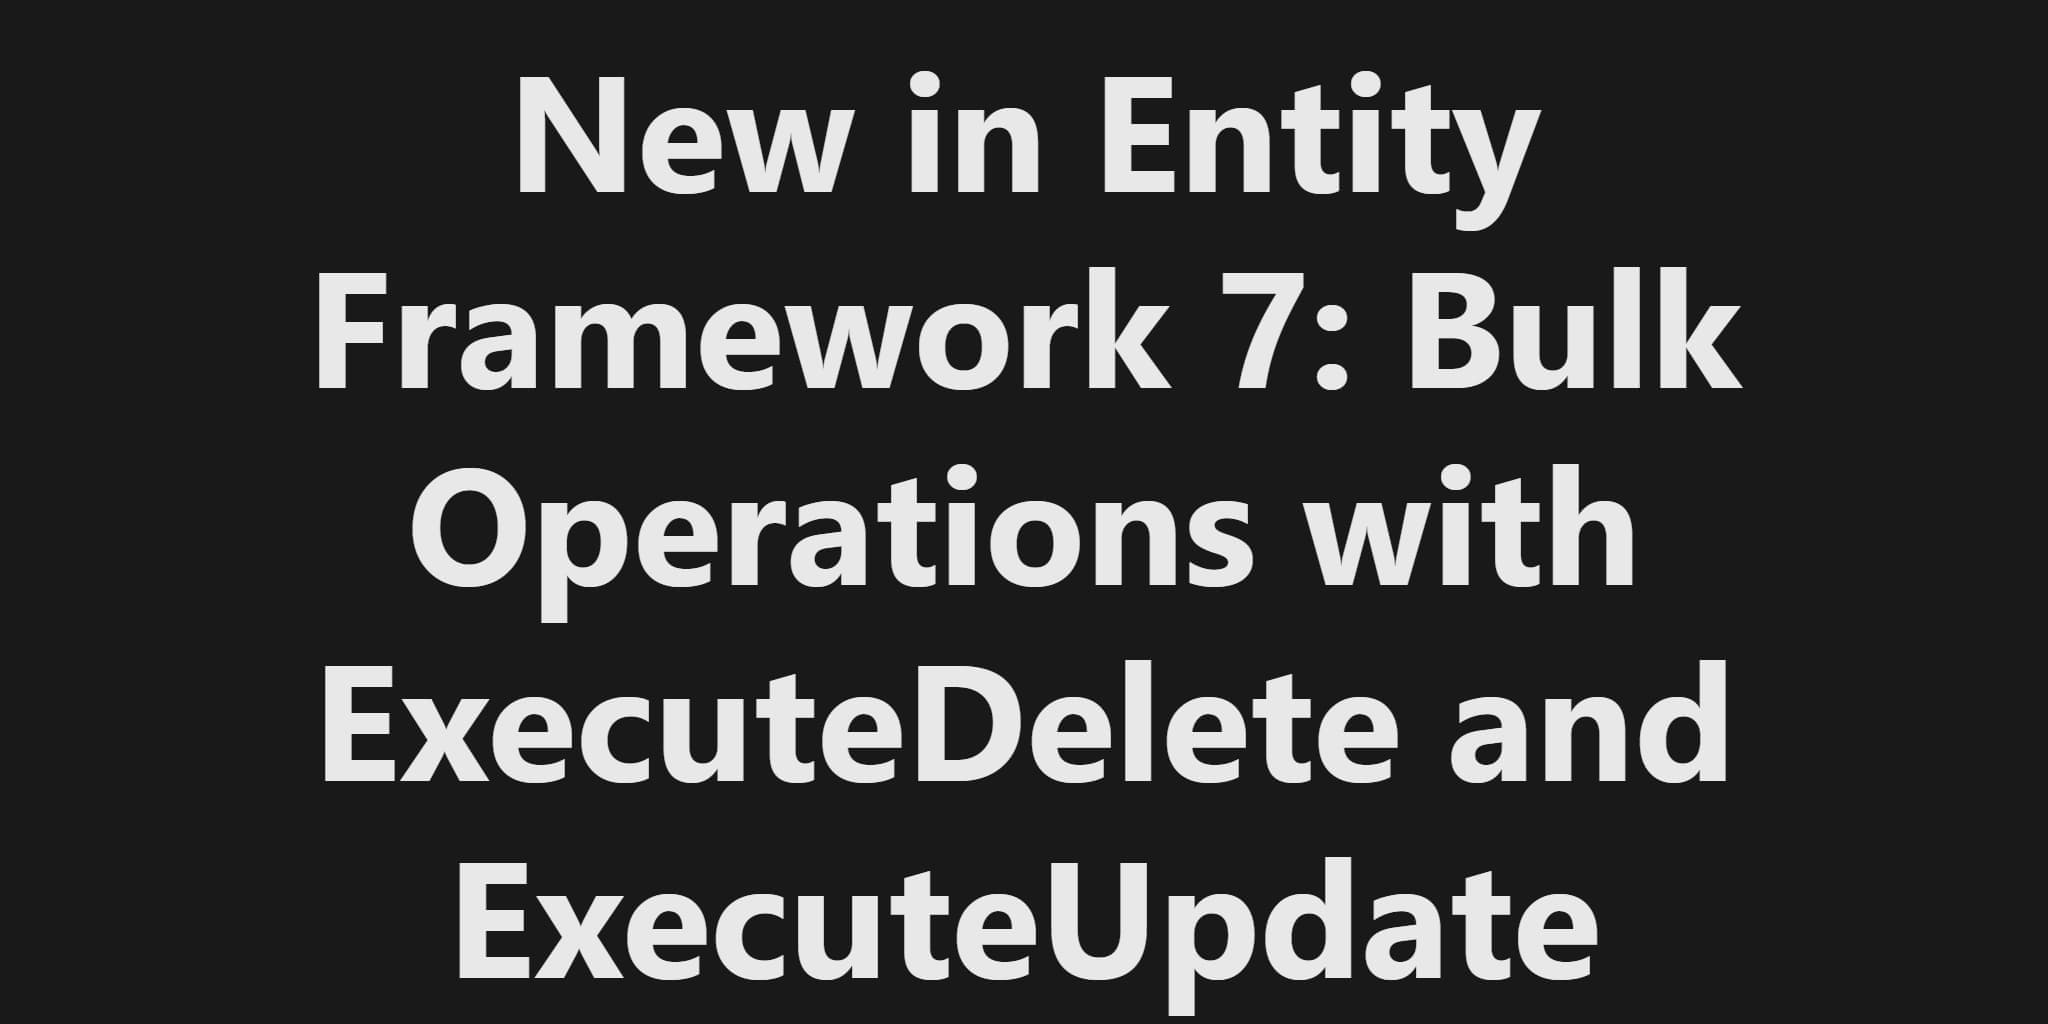
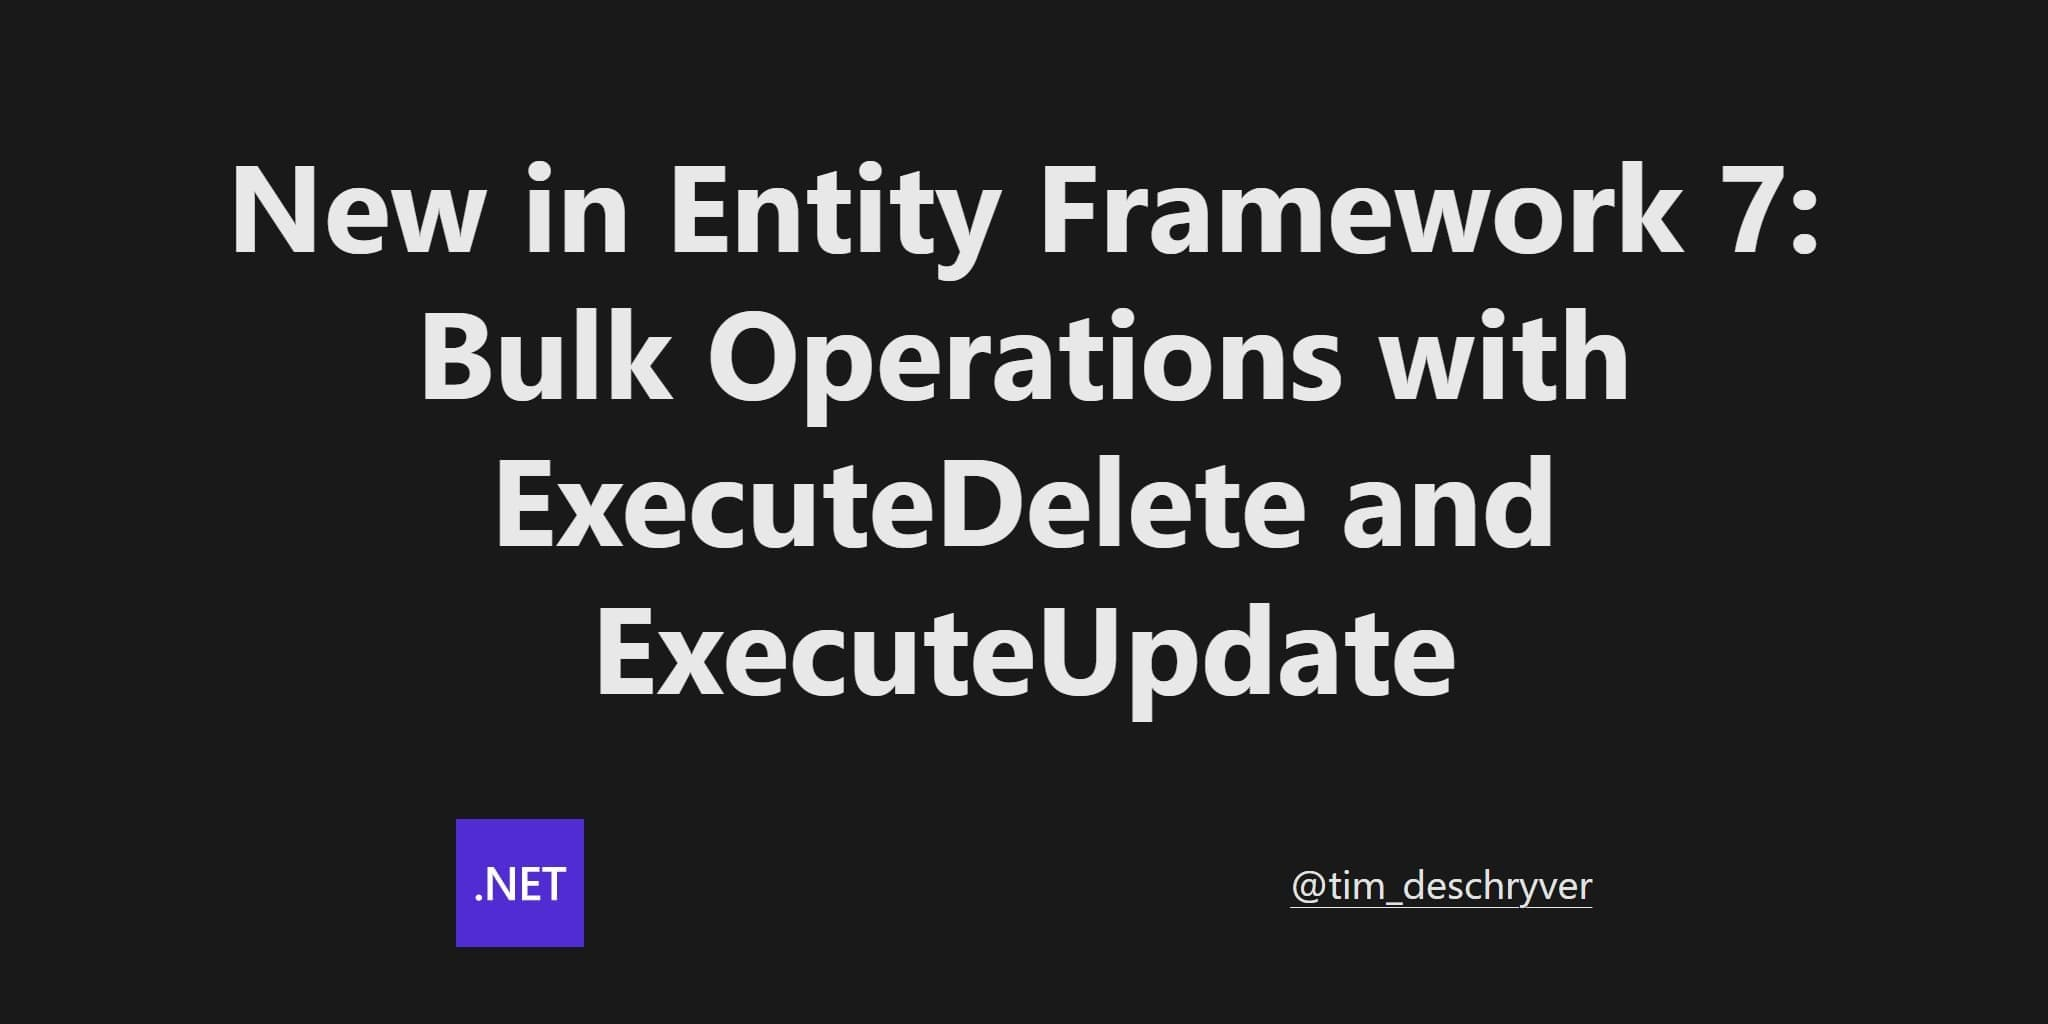
add tweet previews (#113)

Changed region(s): [[0.1562, 0.4375, 0.8438, 1.0], [0.0938, 0.0625, 0.9062, 0.4375]]

diff --git a/src/routes/blog/[slug]/+page.server.ts b/src/routes/blog/[slug]/+page.server.ts
@@ -2,8 +2,11 @@ import { error } from '@sveltejs/kit';
 import { readPosts } from '../../_posts';
 import type { PageServerLoad } from './$types';
 import { execSync } from 'child_process';
-import { ISODate } from '../../../lib/formatters';
+import { humanDateTime, ISODate } from '$lib/formatters';
 import fs from 'fs';
+import { Client as TwitterClient } from 'twitter-api-sdk';
+
+const twitterClient = new TwitterClient(import.meta.env.VITE_PUBLIC_TWITTER_BEARER_TOKEN);
 
 export async function load({ params }): Promise<PageServerLoad> {
 	const posts = await readPosts();
@@ -17,12 +20,39 @@ export async function load({ params }): Promise<PageServerLoad> {
 	try {
 		const tweetRegexp = /::https:\/\/twitter\.com\/[A-Za-z0-9-_]*\/status\/[0-9]+(.*)::/g;
 
-		for (const tweet of post.html.match(tweetRegexp) || []) {
-			const resp = await fetch(
-				`https://publish.twitter.com/oembed?url=${tweet.replace(/::/g, '')}&align=center`,
-			);
-			const json = (await resp.json()) as { html: string };
-			html = html.replace(tweet, json.html);
+		const tweets = (post.html.match(tweetRegexp) || []).map((tweet) => {
+			const [tweetId] = tweet.replace(/::/g, '').split('/').reverse();
+			return [tweet, tweetId];
+		});
+
+		const tweetData = await fetchTweetsInternal(tweets.map(([, tweetId]) => tweetId));
+
+		for (const tweet of tweetData) {
+			const tweetHtml = `
+                <div class="tweet-preview">
+                    <div class="header">
+                        <img class="author-profile" src="${tweet.author.profile}" />
+                        <div class="author-about">
+                            <p><a class="tweet-url" href="${tweet.author.link}">${
+				tweet.author.name
+			}</a></p>
+                            <p class="author-username">@${tweet.author.username}</p>
+                        </div>
+                    </div>
+
+                    <div class="content">
+                        <p class="tweet">${tweet.tweet.text}</p>
+                    </div>
+
+                    <div class="footer">
+                        <p><a class="tweet-url" href="${tweet.tweet.link}">🔗 Go to tweet</a></p>
+                        <p class="tweet-date">${humanDateTime(tweet.tweet.date)}</p>
+                    </div>
+                </div>
+            `;
+
+			const [tweetToReplace] = tweets.find(([t]) => t.includes(tweet.tweet.id));
+			html = html.replace(tweetToReplace, tweetHtml);
 		}
 	} catch (err) {
 		console.error(err);
@@ -66,4 +96,98 @@ function getContributors(slug: string) {
 	}
 
 	return [];
+}
+
+async function fetchTweetsInternal(tweetIds: string[]) {
+	if (!tweetIds.length) {
+		return [];
+	}
+
+	const tweets = await twitterClient.tweets.findTweetsById({
+		ids: tweetIds,
+		'tweet.fields': ['public_metrics', 'created_at', 'author_id', 'attachments', 'entities'],
+		expansions: ['attachments.media_keys'],
+		'media.fields': [
+			'media_key',
+			'preview_image_url',
+			'type',
+			'url',
+			'alt_text',
+			'duration_ms',
+			'variants',
+		],
+	});
+	const authors = await twitterClient.users.findUsersById({
+		ids: tweets.data.map((t) => t.author_id),
+		'user.fields': ['name', 'username', 'url', 'profile_image_url'],
+	});
+
+	return tweets.data.map((tweet) => {
+		const author = authors.data.find((author) => tweet.author_id === author.id);
+		let text = tweet.text.replace(/(?:\r\n|\r|\n)/g, '<br>');
+
+		for (const url of tweet.entities?.urls || []) {
+			if (url.media_key) {
+				const media = tweets.includes.media.find((m) => m.media_key === url.media_key) as any;
+				if (media?.type === 'animated_gif' || media?.type === 'video') {
+					text = text.replace(
+						url.url,
+						`
+                       <video poster="${media.preview_image_url}" controls>
+                            <source src="${media.variants[0].url}" type="video/mp4">
+                            <object data="${media.variants[0].url}"></object>
+                        </video>
+                    `,
+					);
+				}
+			} else if (url.images) {
+				text = text.replace(
+					url.url,
+					`<a class="tweet-url" href="${url.expanded_url}">${url.display_url}</a>`,
+				);
+				text += `<a href="${url.expanded_url}" class="tweet-card">
+                    <figure>
+                        <img src="${url.images[0].url}"></img>
+                        <figcaption>
+                            <div>${url.title}</div> 
+                            <small>${url.description}</small>
+                        </figcaption>
+                    </figure>
+                </a>`;
+			} else if (url.unwound_url) {
+				text = text.replace(url.url, url.expanded_url);
+			}
+		}
+
+		text = text.replace(/@[a-z0-9_]+/g, (matcher) => {
+			return `<a class="tweet-url" href="https://twitter.com/${matcher.substring(
+				1,
+			)}" rel="nofollow">${matcher}</a>`;
+		});
+
+		text = text.replace(/#[a-z0-9_]+/g, (matcher) => {
+			return `<a class="tweet-url" href="https://twitter.com/search?q=${matcher.substring(
+				1,
+			)}" rel="nofollow">${matcher}</a>`;
+		});
+
+		return {
+			tweet: {
+				text,
+				id: tweet.id,
+				likes: tweet.public_metrics.like_count,
+				retweets: tweet.public_metrics.like_count,
+				quotes: tweet.public_metrics.quote_count,
+				replies: tweet.public_metrics.reply_count,
+				date: tweet.created_at,
+				link: `https://twitter.com/${author.username}/status/${tweet.id}`,
+			},
+			author: {
+				name: author.name,
+				username: author.username,
+				profile: author.profile_image_url,
+				link: `https://twitter.com/${author.username}`,
+			},
+		};
+	});
 }

diff --git a/src/routes/blog/[slug]/+page.svelte b/src/routes/blog/[slug]/+page.svelte
@@ -12,6 +12,7 @@
 		.map((tag) => {
 			switch (tag.toLowerCase()) {
 				case '.net':
+				case 'dotnet':
 					return { src: 'dotnet.svg', alt: 'The .NET logo' };
 				case 'angular':
 					return { src: 'angular.svg', alt: 'The Angular logo' };
@@ -316,7 +317,7 @@
 		text-align: center;
 		margin: 0 auto;
 		padding: 0;
-		font-size: clamp(1rem, 4vw, 7rem);
+		font-size: clamp(1rem, 3vw, 6rem);
 	}
 
 	.details {
@@ -351,5 +352,50 @@
 	.translations ul {
 		list-style: none;
 		margin-top: var(--spacing-small);
+	}
+
+	:global(.tweet-preview) {
+		border: 1px solid var(--text-color-subtle);
+		border-radius: 0.3em;
+		padding: 1em 0.8em;
+	}
+
+	:global(.tweet-preview *) {
+		margin-top: 0;
+	}
+
+	:global(.tweet-preview > *:not(:first-child)) {
+		margin-top: 1em;
+	}
+
+	:global(.tweet-preview > .header) {
+		display: grid;
+		grid-template-columns: 48px 1fr;
+		align-items: center;
+		gap: 1em;
+	}
+
+	:global(.tweet-preview .author-profile) {
+		border-radius: 100%;
+	}
+
+	:global(.tweet-preview > .footer) {
+		display: flex;
+		justify-content: space-between;
+	}
+
+	:global(.tweet-preview .tweet-url) {
+		text-decoration: none;
+		color: #1da1f2;
+		font-weight: 500;
+	}
+
+	:global(.tweet-preview .tweet-card) {
+		text-decoration: none;
+		color: var(--text-color-light);
+	}
+
+	:global(.tweet-preview video) {
+		margin-top: 0.5em;
 	}
 </style>

diff --git a/static/global.css b/static/global.css
@@ -18,6 +18,7 @@
 		--background-color-transparant: hsla(0, 0%, 0%, 0.05);
 		--text-color: hsla(0, 0%, 0%, 0.95);
 		--text-color-light: hsla(0, 0%, 0%, 0.7);
+		--text-color-subtle: hsla(0, 0%, 0%, 0.4);
 	}
 
 	strong,
@@ -32,6 +33,7 @@
 		--background-color-transparant: hsla(0, 0%, 100%, 0.05);
 		--text-color: hsla(0, 0%, 100%, 0.9);
 		--text-color-light: hsla(0, 0%, 100%, 0.7);
+		--text-color-subtle: hsla(0, 0%, 100%, 0.4);
 	}
 
 	strong,
@@ -133,7 +135,7 @@ label {
 	font-size: inherit;
 }
 
-img {
+img, video {
 	width: 100%;
 }
 

diff --git a/scripts/banners.js b/scripts/banners.js
@@ -60,14 +60,15 @@ const content = './blog';
 						if (logos.length) {
 							el.style.display = 'flex';
 							logos.forEach((logo) => {
-								logo.height = '128';
+								logo.height = 128;
 							});
 						}
 					});
 
 					await page.$eval('.details', (el) => {
 						el.style['justify-content'] = 'space-around';
-						el.style['font-size'] = '5rem';
+						el.style['align-items'] = 'center';
+						el.style['font-size'] = '2.5rem';
 					});
 
 					await page.$eval('body', (el) => {

diff --git a/src/lib/formatters.ts b/src/lib/formatters.ts
@@ -2,7 +2,17 @@ export function humanDate(date: string | Date) {
 	return toDate(date).toLocaleDateString(undefined, {
 		year: 'numeric',
 		month: 'long',
-		day: '2-digit'
+		day: '2-digit',
+	});
+}
+
+export function humanDateTime(date: string | Date) {
+	return toDate(date).toLocaleDateString(undefined, {
+		year: 'numeric',
+		month: 'long',
+		day: '2-digit',
+		hour: '2-digit',
+		minute: '2-digit',
 	});
 }
 

diff --git a/scripts/devto.js b/scripts/devto.js
@@ -48,7 +48,7 @@ dotEnv.load({
 							return t;
 					}
 				}),
-			cover_image: metadata.banner,
+			cover_image: url + '/images/banner.webp',
 			canonical_url: url,
 			published: true,
 		};

diff --git a/blog/new-in-entity-framework-7-bulk-operations-with-executedelete-and-executeupdate/index.md b/blog/new-in-entity-framework-7-bulk-operations-with-executedelete-and-executeupdate/index.md
@@ -7,7 +7,9 @@ tags: dotnet, entity framework, sql
 ---
 
 Version 7 of Entity Framework includes some popular features that have been asked for, one of which is Bulk Operations.
-This feature came to my attention from a [tweet](https://twitter.com/julielerman/status/1557752882698526722?s=20&t=kpMNLX5X4K8MIv6LaynCcg) by [Julie Lerman](https://twitter.com/julielerman), and I had to try it out for myself.
+This feature came to my attention from a [tweet](https://twitter.com/julielerman/status/1557743067691569156) by [Julie Lerman](https://twitter.com/julielerman), and I had to try it out for myself.
+
+https://twitter.com/julielerman/status/1557743067691569156
 
 ## Why
 
